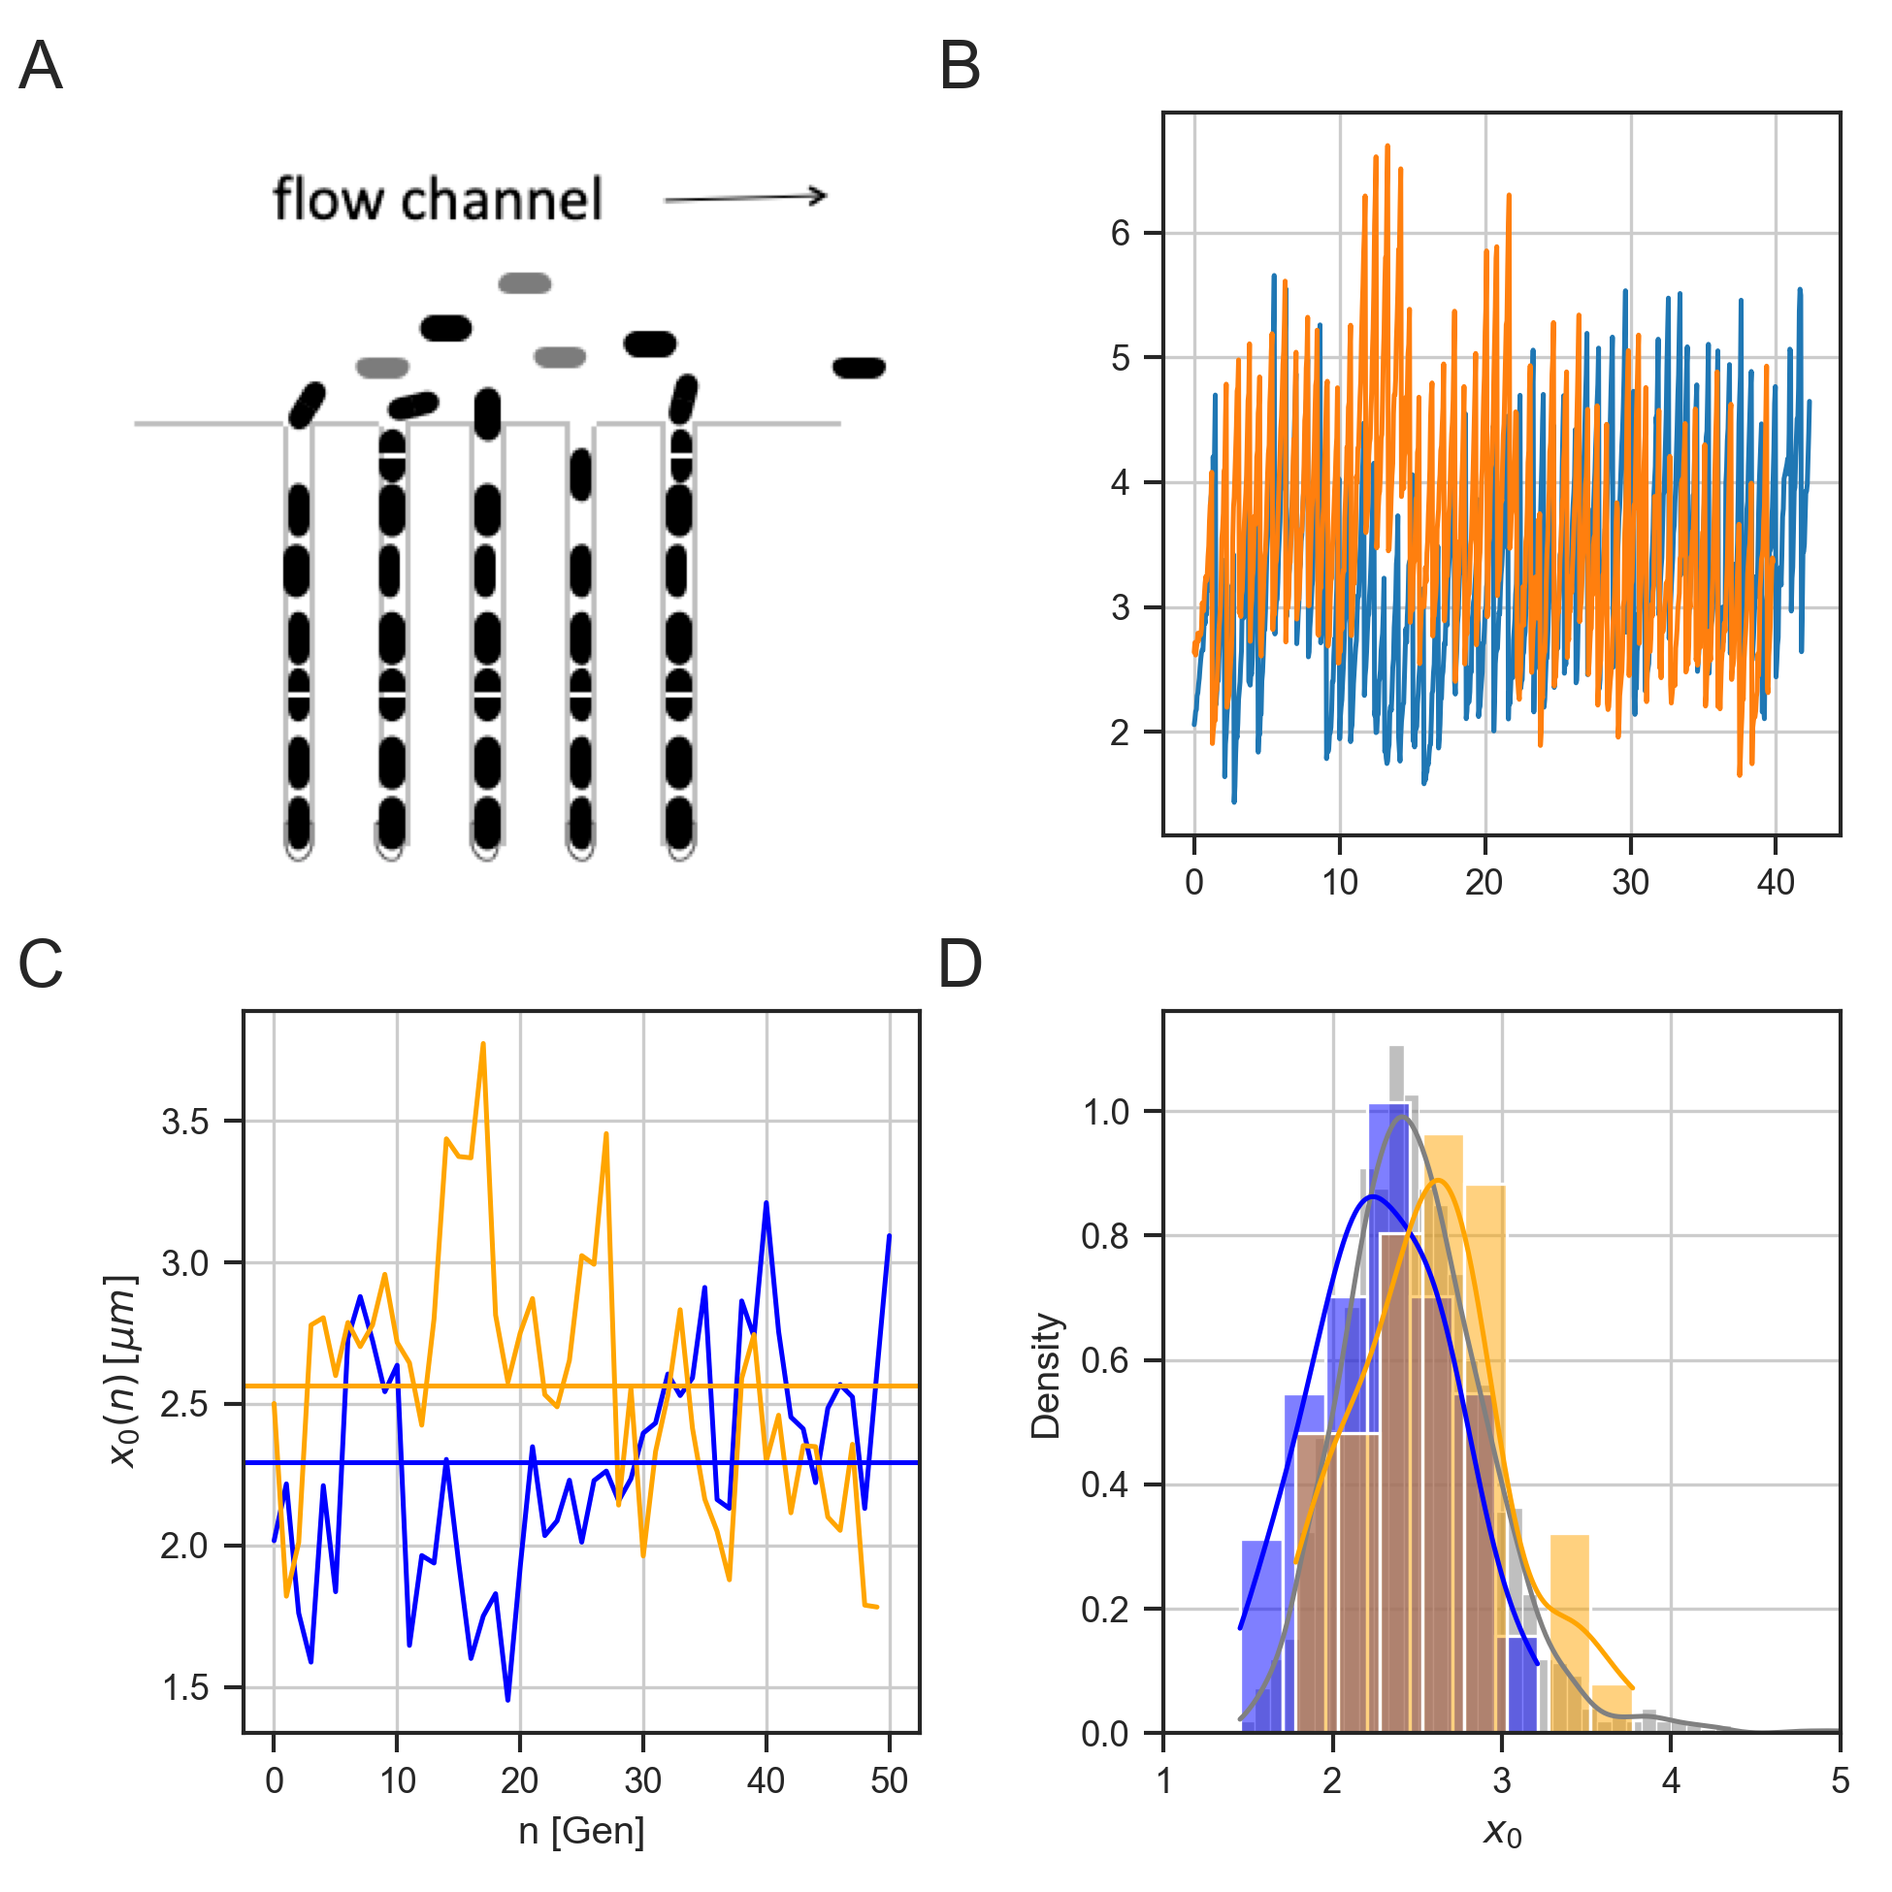
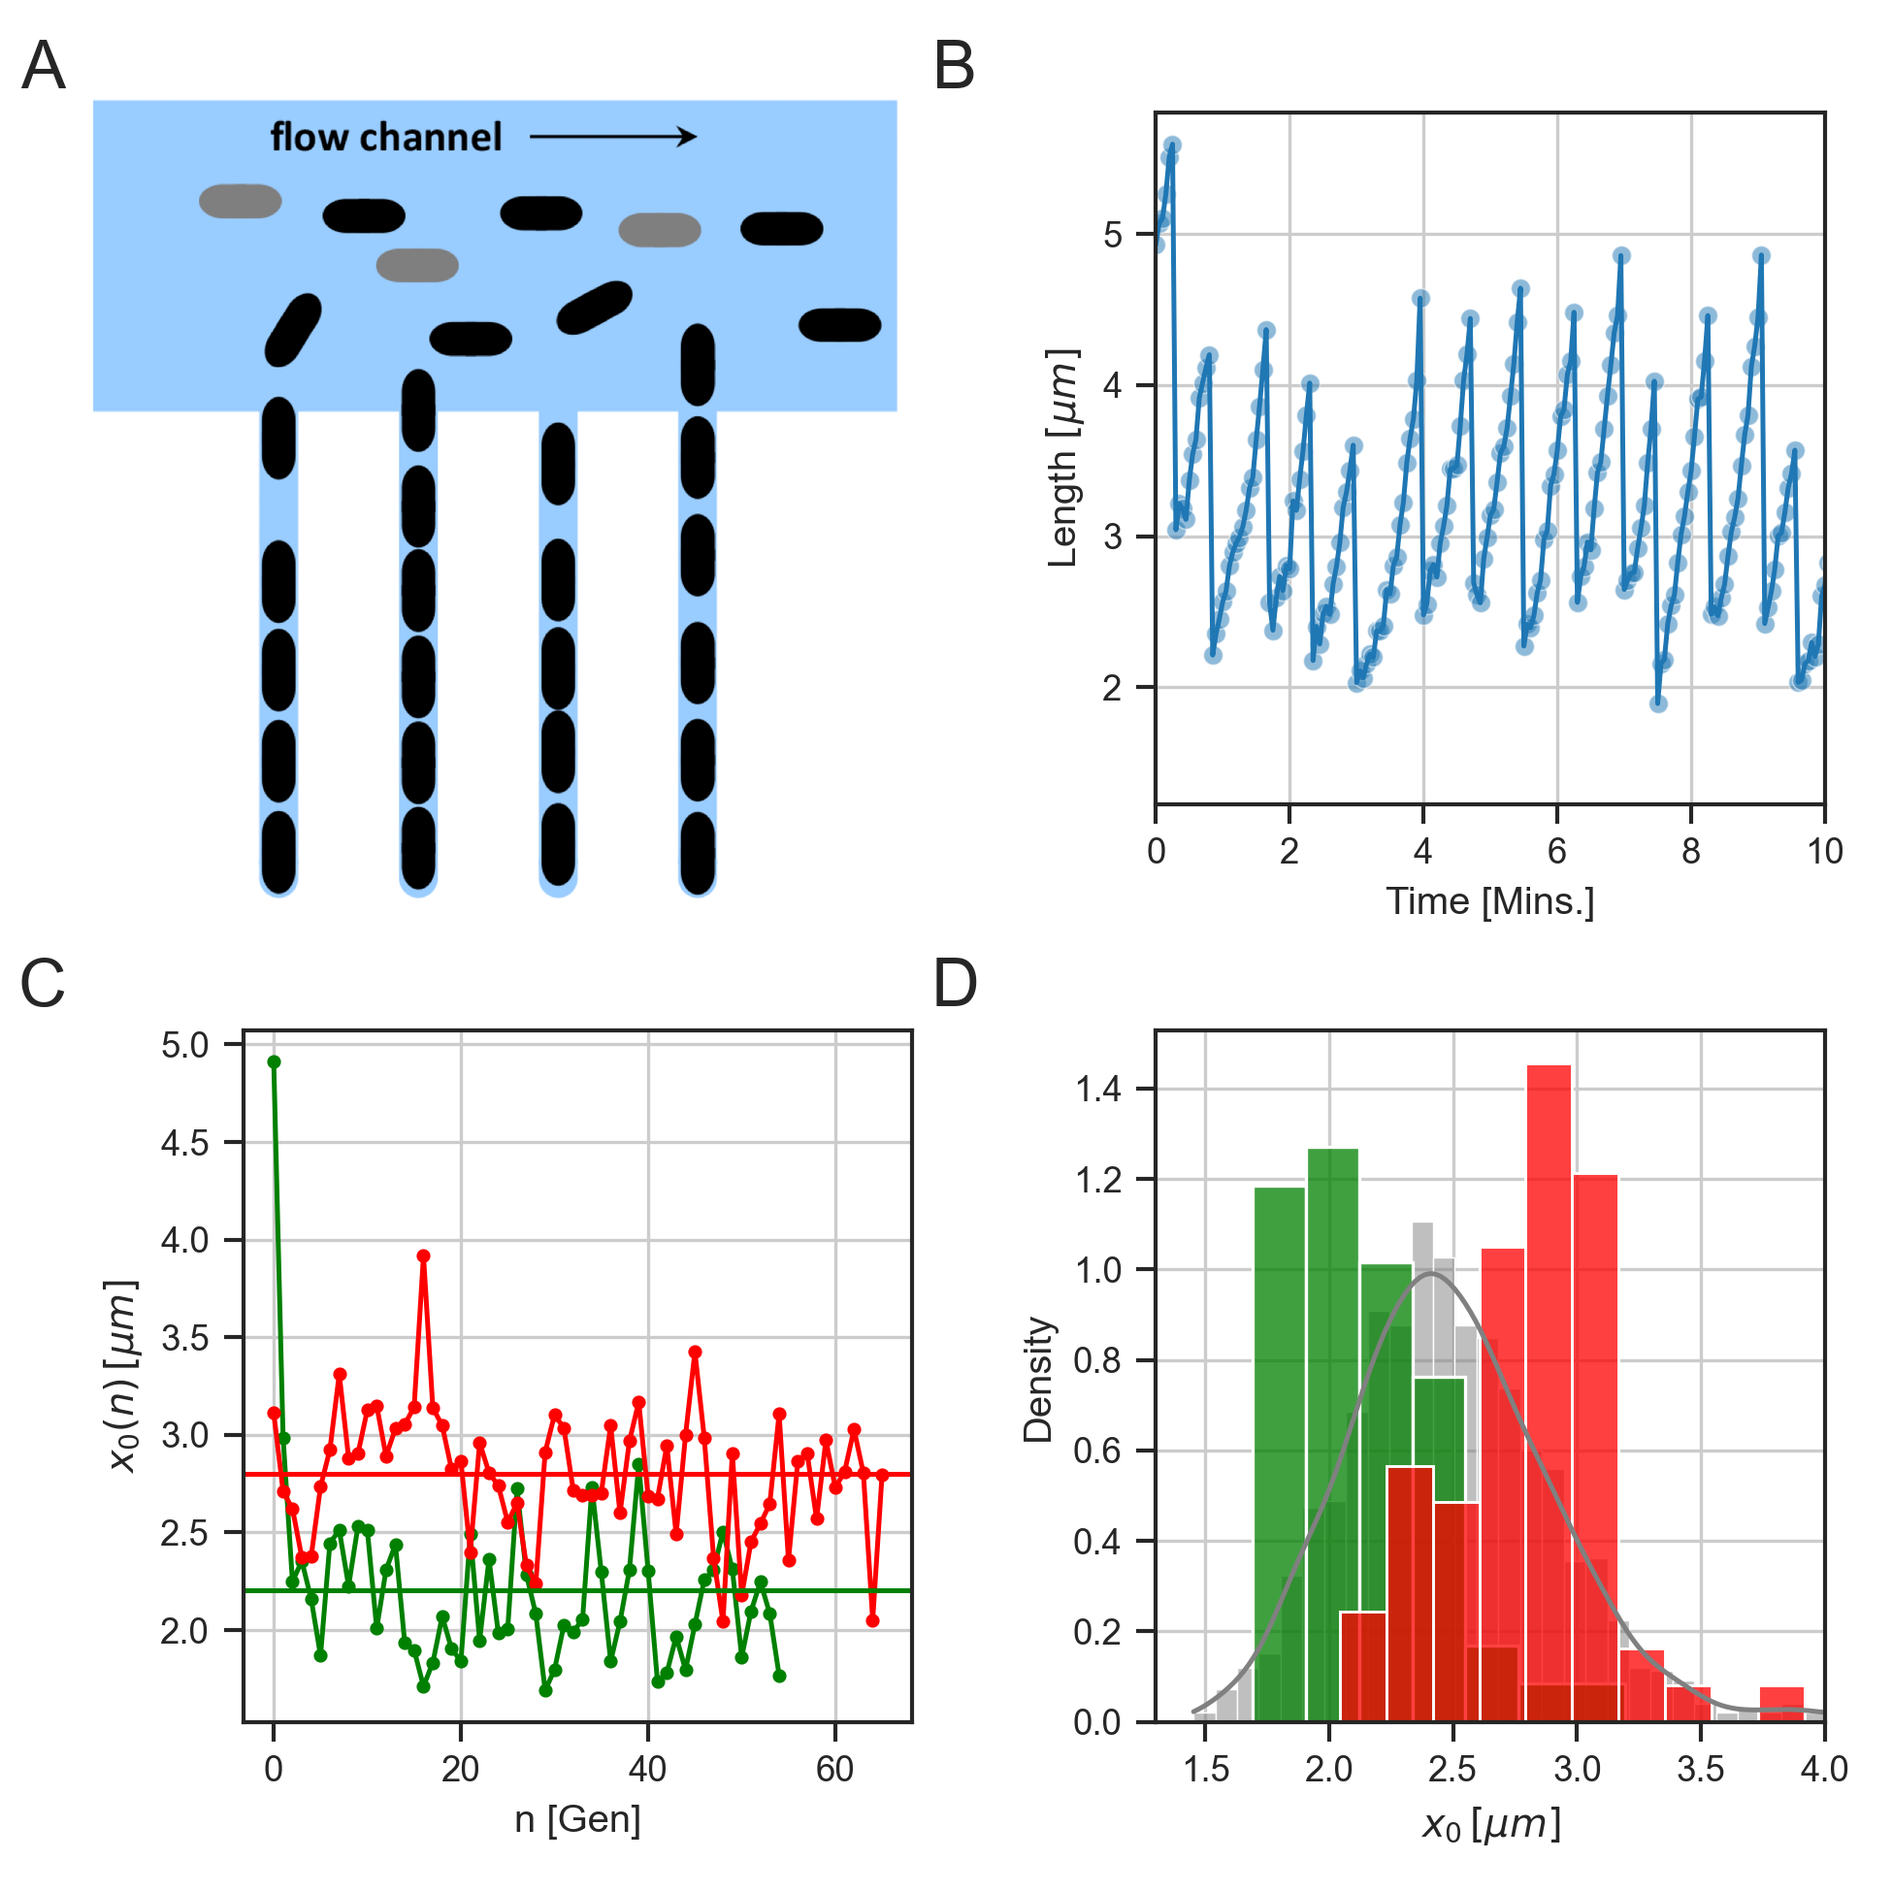
Updating figures 3 and 4 and creating new figure 1.

diff --git a/NewIntroductoryFigure/new_fig_1.py b/NewIntroductoryFigure/new_fig_1.py
@@ -53,12 +53,45 @@ def shuffle_info_sm(info):
 
 def plot_neighbor_raw_data(ax, num1, num2, **kwargs):
     raw_lineages = pd.read_csv(kwargs['raw_data']('Maryam_LongTraces') + 'raw_data_all_in_one.csv')
-    a_trace = raw_lineages[raw_lineages['lineage_ID'] == num1].copy().sort_values('time').reset_index(drop=True)
-    b_trace = raw_lineages[raw_lineages['lineage_ID'] == num2].copy().sort_values('time').reset_index(drop=True)
+    raw_indices = pd.read_csv(kwargs['processed_data']('Maryam_LongTraces') + 'raw_indices_processing.csv')
 
-    ax.plot(a_trace['time'].values, a_trace['length'].values, label='A')
-    ax.plot(b_trace['time'].values, b_trace['length'].values, label='B')
+    a_last_index = raw_indices[(raw_indices.type == 'end') & (raw_indices.lineage_ID == num1)].value.values[30]
+
+    cut_mask = (raw_lineages.time <= a_last_index)
+
+    a_trace = raw_lineages[(raw_lineages['lineage_ID'] == num1) & cut_mask].copy().sort_values('time').reset_index(drop=True)
+    b_trace = raw_lineages[(raw_lineages['lineage_ID'] == num2) & cut_mask].copy().sort_values('time').reset_index(drop=True)
+    # print(a_trace)
+    # print(raw_indices)
+    # exit()
+
+    ax.plot(a_trace['time'].values, a_trace['length'].values, label='A', color='green')
+
+    # ax.plot(b_trace['time'].values, b_trace['length'].values, label='B', color='red')
     # ax.legend()
+
+
+def possible_mm_lineages(**kwargs):
+    # 133 ( GOOD COORDINATION ), 315, 91, 341, 311, 111 --> Possible NL lineages
+
+    ta = pd.read_csv(kwargs['processed_data']('Maryam_LongTraces') + 'time_averages.csv').drop(
+        columns=['generation']).drop_duplicates()
+    pu = pd.read_csv(kwargs['processed_data']('Maryam_LongTraces') + 'physical_units.csv')
+
+    # print(ta.columns)
+    # print(pu.columns)
+    # mask = ta['lineage_ID'].isin(pu[pu['dataset'] == 'NL'].lineage_ID.values)
+    # print(len(ta[(ta['lineage_ID'] % 2 == 0) & mask].max_gen.values))
+    #
+    # updated = ta[(ta['lineage_ID'] % 2 == 0) & mask]
+    #
+    # print(updated.sort_values('max_gen').lineage_ID.values)
+    # updated1 = ta[(ta['lineage_ID'] % 2 == 1) & mask]
+    # print(updated1.sort_values('max_gen').lineage_ID.values)
+
+    print('min', ta[ta['length_birth'] == ta['length_birth'].min()].lineage_ID)
+    print('max', ta[ta['length_birth'] == ta['length_birth'].max()].lineage_ID)
+    exit()
 
 
 def plot_nl_length_birth_in_gentime_and_avg(num1, num2, ax, **kwargs):
@@ -66,11 +99,12 @@ def plot_nl_length_birth_in_gentime_and_avg(num1, num2, ax, **kwargs):
         columns=['generation']).drop_duplicates()
     pu = pd.read_csv(kwargs['processed_data']('Maryam_LongTraces') + 'physical_units.csv')
 
-    ax.plot(pu[pu['lineage_ID'] == num1].generation.values, pu[pu['lineage_ID'] == num1].length_birth.values, c='blue')
+    ax.plot(pu[pu['lineage_ID'] == num1].generation.values, pu[pu['lineage_ID'] == num1].length_birth.values,
+            c='green', marker='.')
     ax.plot(pu[pu['lineage_ID'] == num2].generation.values, pu[pu['lineage_ID'] == num2].length_birth.values,
-             c='orange')
-    ax.axhline(ta[ta['lineage_ID'] == num1].length_birth.values, c='blue')
-    ax.axhline(ta[ta['lineage_ID'] == num2].length_birth.values, c='orange')
+             c='red', marker='.')
+    ax.axhline(ta[ta['lineage_ID'] == num1].length_birth.values, c='green')
+    ax.axhline(ta[ta['lineage_ID'] == num2].length_birth.values, c='red')
     ax.set_xlabel('n [Gen]')
     ax.set_ylabel(r'$x_0(n) \, [\mu m]$')
     # plt.show()
@@ -81,10 +115,22 @@ def the_hists(num1, num2, ax, **kwargs):
     pu = pd.read_csv(kwargs['processed_data']('Maryam_LongTraces') + 'physical_units.csv')
 
     sns.histplot(data=pu, x='length_birth', color='grey', ax=ax, stat='density', fill=True, kde=True)
-    sns.histplot(data=pu[pu.lineage_ID == num1], x='length_birth', color='blue', ax=ax, stat='density', fill=1, kde=True)
-    sns.histplot(data=pu[pu.lineage_ID == num2], x='length_birth', color='orange', ax=ax, stat='density', fill=1, kde=True)
-    ax.set_xlim([1, 5])
-    ax.set_xlabel(r'$x_0$')
+    sns.histplot(data=pu[pu.lineage_ID == num1], x='length_birth', color='green', ax=ax, stat='density', fill=True, kde=False)
+    sns.histplot(data=pu[pu.lineage_ID == num2], x='length_birth', color='red', ax=ax, stat='density', fill=True, kde=False)
+    ax.set_xlim([1.3, 4])
+    ax.set_xlabel(r'$x_0 \, [\mu m]$')
+
+
+def raw_data_plot(num, ax, **kwargs):
+    raw_lineages = pd.read_csv(kwargs['raw_data']('Maryam_LongTraces') + 'raw_data_all_in_one.csv')
+    rl = raw_lineages[raw_lineages['lineage_ID'] == num].copy().sort_values('time').reset_index(drop=True)
+    sns.lineplot(data=rl, x='time', y='length', ax=ax, color=cmap[0])
+    sns.scatterplot(data=rl, x='time', y='length', ax=ax, alpha=.5, color=cmap[0])
+    # ax.plot(rl['time'], rl['length'], markerfacecolor=(1, 1, 0, 0.5))  # , marker='o', alpha=0.3)
+    ax.set_xlabel('Time [Mins.]')
+    ax.set_ylabel(r'Length $[\mu m]$')
+    ax.set_xlim([0, 10])
+    # ax.plot()
 
 
 def main(**kwargs):
@@ -107,12 +153,14 @@ def main(**kwargs):
 
     fig, axes = plt.subplots(2, 2, figsize=(6.5 * scale, 6.5 * scale))  # figsize=()
 
-    num1 = 5  # 5 & 28 or 29
-    num2 = 29
+    num1 = 23 # 5  # 5 & 28 or 29
+    num2 = 10 # 29
 
     # # From the process_rawdata.py file where it is used to visually confirm the regression as well as the division events
     # check_the_division('Pooled_SM', lineages=[1], raw_lineages=[], raw_indices=[], pu=[], ax=axes[0, 1], **kwargs)  # A trace
     # check_the_division('Pooled_SM', lineages=[2], raw_lineages=[], raw_indices=[], pu=[], ax=axes[0, 1], **kwargs)  # B trace
+
+    # possible_mm_lineages(**kwargs)
 
     # plot_neighbor_raw_data(axes[0, 1], **kwargs)
     axes[0, 0].set_title('A', x=-.3, fontsize='xx-large')
@@ -122,9 +170,17 @@ def main(**kwargs):
     axes[0, 0].set_frame_on(False)
     axes[0, 0].set_xticks([])
     axes[0, 0].set_yticks([])
-    plot_neighbor_raw_data(axes[0, 1], num1, num2, **kwargs)
+
+    # check_the_division('Maryam_LongTraces', lineages=[num1], raw_lineages=[], raw_indices=[], pu=[], ax=axes[0, 1], **kwargs)
+    raw_data_plot(num1, axes[0, 1], **kwargs)
+    # axes[0, 1].legend()
+    # axes[0, 1].set_xlabel('Absolute Time (Mins.)')
+    # axes[0, 1].set_ylabel(r'Length $[\mu m]$')
+    # axes[0, 1].set_xlim([0, 20])
+
+    # plot_neighbor_raw_data(axes[0, 1], num1, num2, **kwargs)
     plot_nl_length_birth_in_gentime_and_avg(num1, num2, axes[1, 0], **kwargs)
-    the_hists(num1, num2, axes[1, 1], **kwargs)
+    the_hists(23, 10, axes[1, 1], **kwargs)
 
     plt.tight_layout()
     plt.savefig(f'NewIntroductoryFigure{slash}fig1.png', dpi=300)

diff --git a/NewIntroductoryFigure/plot_intro_figure.py b/NewIntroductoryFigure/plot_intro_figure.py
@@ -68,16 +68,22 @@ def possible_nl_lineages(**kwargs):
         columns=['generation']).drop_duplicates()
     pu = pd.read_csv(kwargs['processed_data']('Pooled_SM') + 'physical_units.csv')
 
-    print(ta.columns)
-    print(pu.columns)
-    mask = ta['lineage_ID'].isin(pu[pu['dataset'] == 'NL'].lineage_ID.values)
-    print(len(ta[(ta['lineage_ID'] % 2 == 0) & mask].max_gen.values))
+    mask = (ta['max_gen'] >= 30)
 
-    updated = ta[(ta['lineage_ID'] % 2 == 0) & mask]
-
-    print(updated.sort_values('max_gen').lineage_ID.values)
-    updated1 = ta[(ta['lineage_ID'] % 2 == 1) & mask]
-    print(updated1.sort_values('max_gen').lineage_ID.values)
+    print('min\n', ta[mask].sort_values('length_birth', ascending=True)[['lineage_ID', 'max_gen']])
+    print('max\n', ta[mask].sort_values('length_birth', ascending=False)[['lineage_ID', 'max_gen']])
+    # exit()
+    #
+    # print(ta.columns)
+    # print(pu.columns)
+    # mask = ta['lineage_ID'].isin(pu[pu['dataset'] == 'NL'].lineage_ID.values)
+    # print(len(ta[(ta['lineage_ID'] % 2 == 0) & mask].max_gen.values))
+    #
+    # updated = ta[(ta['lineage_ID'] % 2 == 0) & mask]
+    #
+    # print(updated.sort_values('max_gen').lineage_ID.values)
+    # updated1 = ta[(ta['lineage_ID'] % 2 == 1) & mask]
+    # print(updated1.sort_values('max_gen').lineage_ID.values)
 
 
 def plot_nl_length_birth_in_gentime_and_avg(num, ax, **kwargs):
@@ -85,11 +91,12 @@ def plot_nl_length_birth_in_gentime_and_avg(num, ax, **kwargs):
         columns=['generation']).drop_duplicates()
     pu = pd.read_csv(kwargs['processed_data']('Pooled_SM') + 'physical_units.csv')
 
-    ax.plot(pu[pu['lineage_ID'] == num].generation.values, pu[pu['lineage_ID'] == num].length_birth.values, c='blue')
+    ax.plot(pu[pu['lineage_ID'] == num].generation.values, pu[pu['lineage_ID'] == num].length_birth.values, c='green',
+            marker='.')
     ax.plot(pu[pu['lineage_ID'] == num + 1].generation.values, pu[pu['lineage_ID'] == num + 1].length_birth.values,
-             c='orange')
-    ax.axhline(ta[ta['lineage_ID'] == num].length_birth.values, c='blue')
-    ax.axhline(ta[ta['lineage_ID'] == num + 1].length_birth.values, c='orange')
+            c='red', marker='.')
+    ax.axhline(ta[ta['lineage_ID'] == num].length_birth.values, c='green')
+    ax.axhline(ta[ta['lineage_ID'] == num + 1].length_birth.values, c='red')
     ax.set_xlabel('n [Gen]')
     ax.set_ylabel(r'$x_0(n) \, [\mu m]$')
     # plt.show()
@@ -100,10 +107,13 @@ def the_hists(num, ax, **kwargs):
     pu = pd.read_csv(kwargs['processed_data']('Pooled_SM') + 'physical_units.csv')
 
     sns.histplot(data=pu, x='length_birth', color='grey', ax=ax, stat='density', fill=True, kde=True)
-    sns.histplot(data=pu[pu.lineage_ID == num], x='length_birth', color='blue', ax=ax, stat='density', fill=1, kde=True)
-    sns.histplot(data=pu[pu.lineage_ID == num+1], x='length_birth', color='orange', ax=ax, stat='density', fill=1, kde=True)
+    sns.histplot(data=pu[pu.lineage_ID == num], x='length_birth', color='green', ax=ax, stat='density', fill=True, kde=False)
+    sns.histplot(data=pu[pu.lineage_ID == num+1], x='length_birth', color='red', ax=ax, stat='density', fill=True, kde=False)
+
+    # sns.histplot(data=pu[pu.lineage_ID == 337], x='length_birth', color='green', ax=ax, stat='density', fill=True, kde=False)
+    # sns.histplot(data=pu[pu.lineage_ID == 296], x='length_birth', color='red', ax=ax, stat='density', fill=True, kde=False)
     ax.set_xlim([1, 5])
-    ax.set_xlabel(r'$x_0$')
+    ax.set_xlabel(r'$x_0 \, [\mu m]$')
 
 
 """ variance decomposition for SM data conditioning on trap and lineage """
@@ -214,7 +224,7 @@ def vd_with_trap_and_lineage(variables, lin_type, ax, **kwargs):
 
     # The legend
     handles, labels = ax.get_legend_handles_labels()
-    plt.legend(handles, labels, title='')
+    plt.legend(handles, labels, title='', loc='upper right')
 
     # Graphical things
     ax.set_xlabel('')
@@ -223,6 +233,7 @@ def vd_with_trap_and_lineage(variables, lin_type, ax, **kwargs):
 
 
 def main(**kwargs):
+    # possible_nl_lineages(**kwargs)
 
     seaborn_preamble()
 

diff --git a/run_all_analysis.py b/run_all_analysis.py
@@ -64,38 +64,38 @@ for tof, aof in zip(noise_args["types_of_noise"], noise_args["amount_of_noise"])
             'noise_index': f'_{tof}_{aof}'
         })
 
-    # new_intro_figure(**noise_args)
-    new_fig_1(**noise_args)
-    exit()
+    # process_data(**noise_args)
+    #
+    # manifold_3d(**noise_args)  # Uses datasets specified in noise arguments, though it should be all...
+    #
+    # variance_decomposed(**noise_args)  # Requires datasets 'Pooled_SM', 'lambda_lb', 'Maryam_LongTraces'
+    #
+    # variance_decomposed_supp(**noise_args)
+    #
+    # pyramids(**noise_args)
+    #
+    # histogram_of_generations_per_lineage(**noise_args)  # Not necessary since it is not published
+    #
+    # intergenerational_corrs(**noise_args)
+    #
+    # microenv_averages(**noise_args)
+    #
+    # pair_lineage_corrs(**noise_args)
+    #
+    # dfa_maintext(**noise_args)
+    #
+    # dfa_supp(**noise_args)
+    #
+    # pooled_average(**noise_args)
+    #
+    # size_variables(**noise_args)
+    #
+    # tables_supp(**noise_args)
+    #
+    # single_cell_corrs(**noise_args)
+    #
+    # dfa_trend(**noise_args)
 
-    process_data(**noise_args)
-
-    manifold_3d(**noise_args)  # Uses datasets specified in noise arguments, though it should be all...
-
-    variance_decomposed(**noise_args)  # Requires datasets 'Pooled_SM', 'lambda_lb', 'Maryam_LongTraces'
-
-    variance_decomposed_supp(**noise_args)
-
-    pyramids(**noise_args)
-
-    histogram_of_generations_per_lineage(**noise_args)  # Not necessary since it is not published
-
-    intergenerational_corrs(**noise_args)
-
-    microenv_averages(**noise_args)
-
-    pair_lineage_corrs(**noise_args)
-
-    dfa_maintext(**noise_args)
-
-    dfa_supp(**noise_args)
-
-    pooled_average(**noise_args)
-
-    size_variables(**noise_args)
-
-    tables_supp(**noise_args)
-
-    single_cell_corrs(**noise_args)
-
-    dfa_trend(**noise_args)
+    new_intro_figure(**noise_args)
+    #
+    # new_fig_1(**noise_args)
